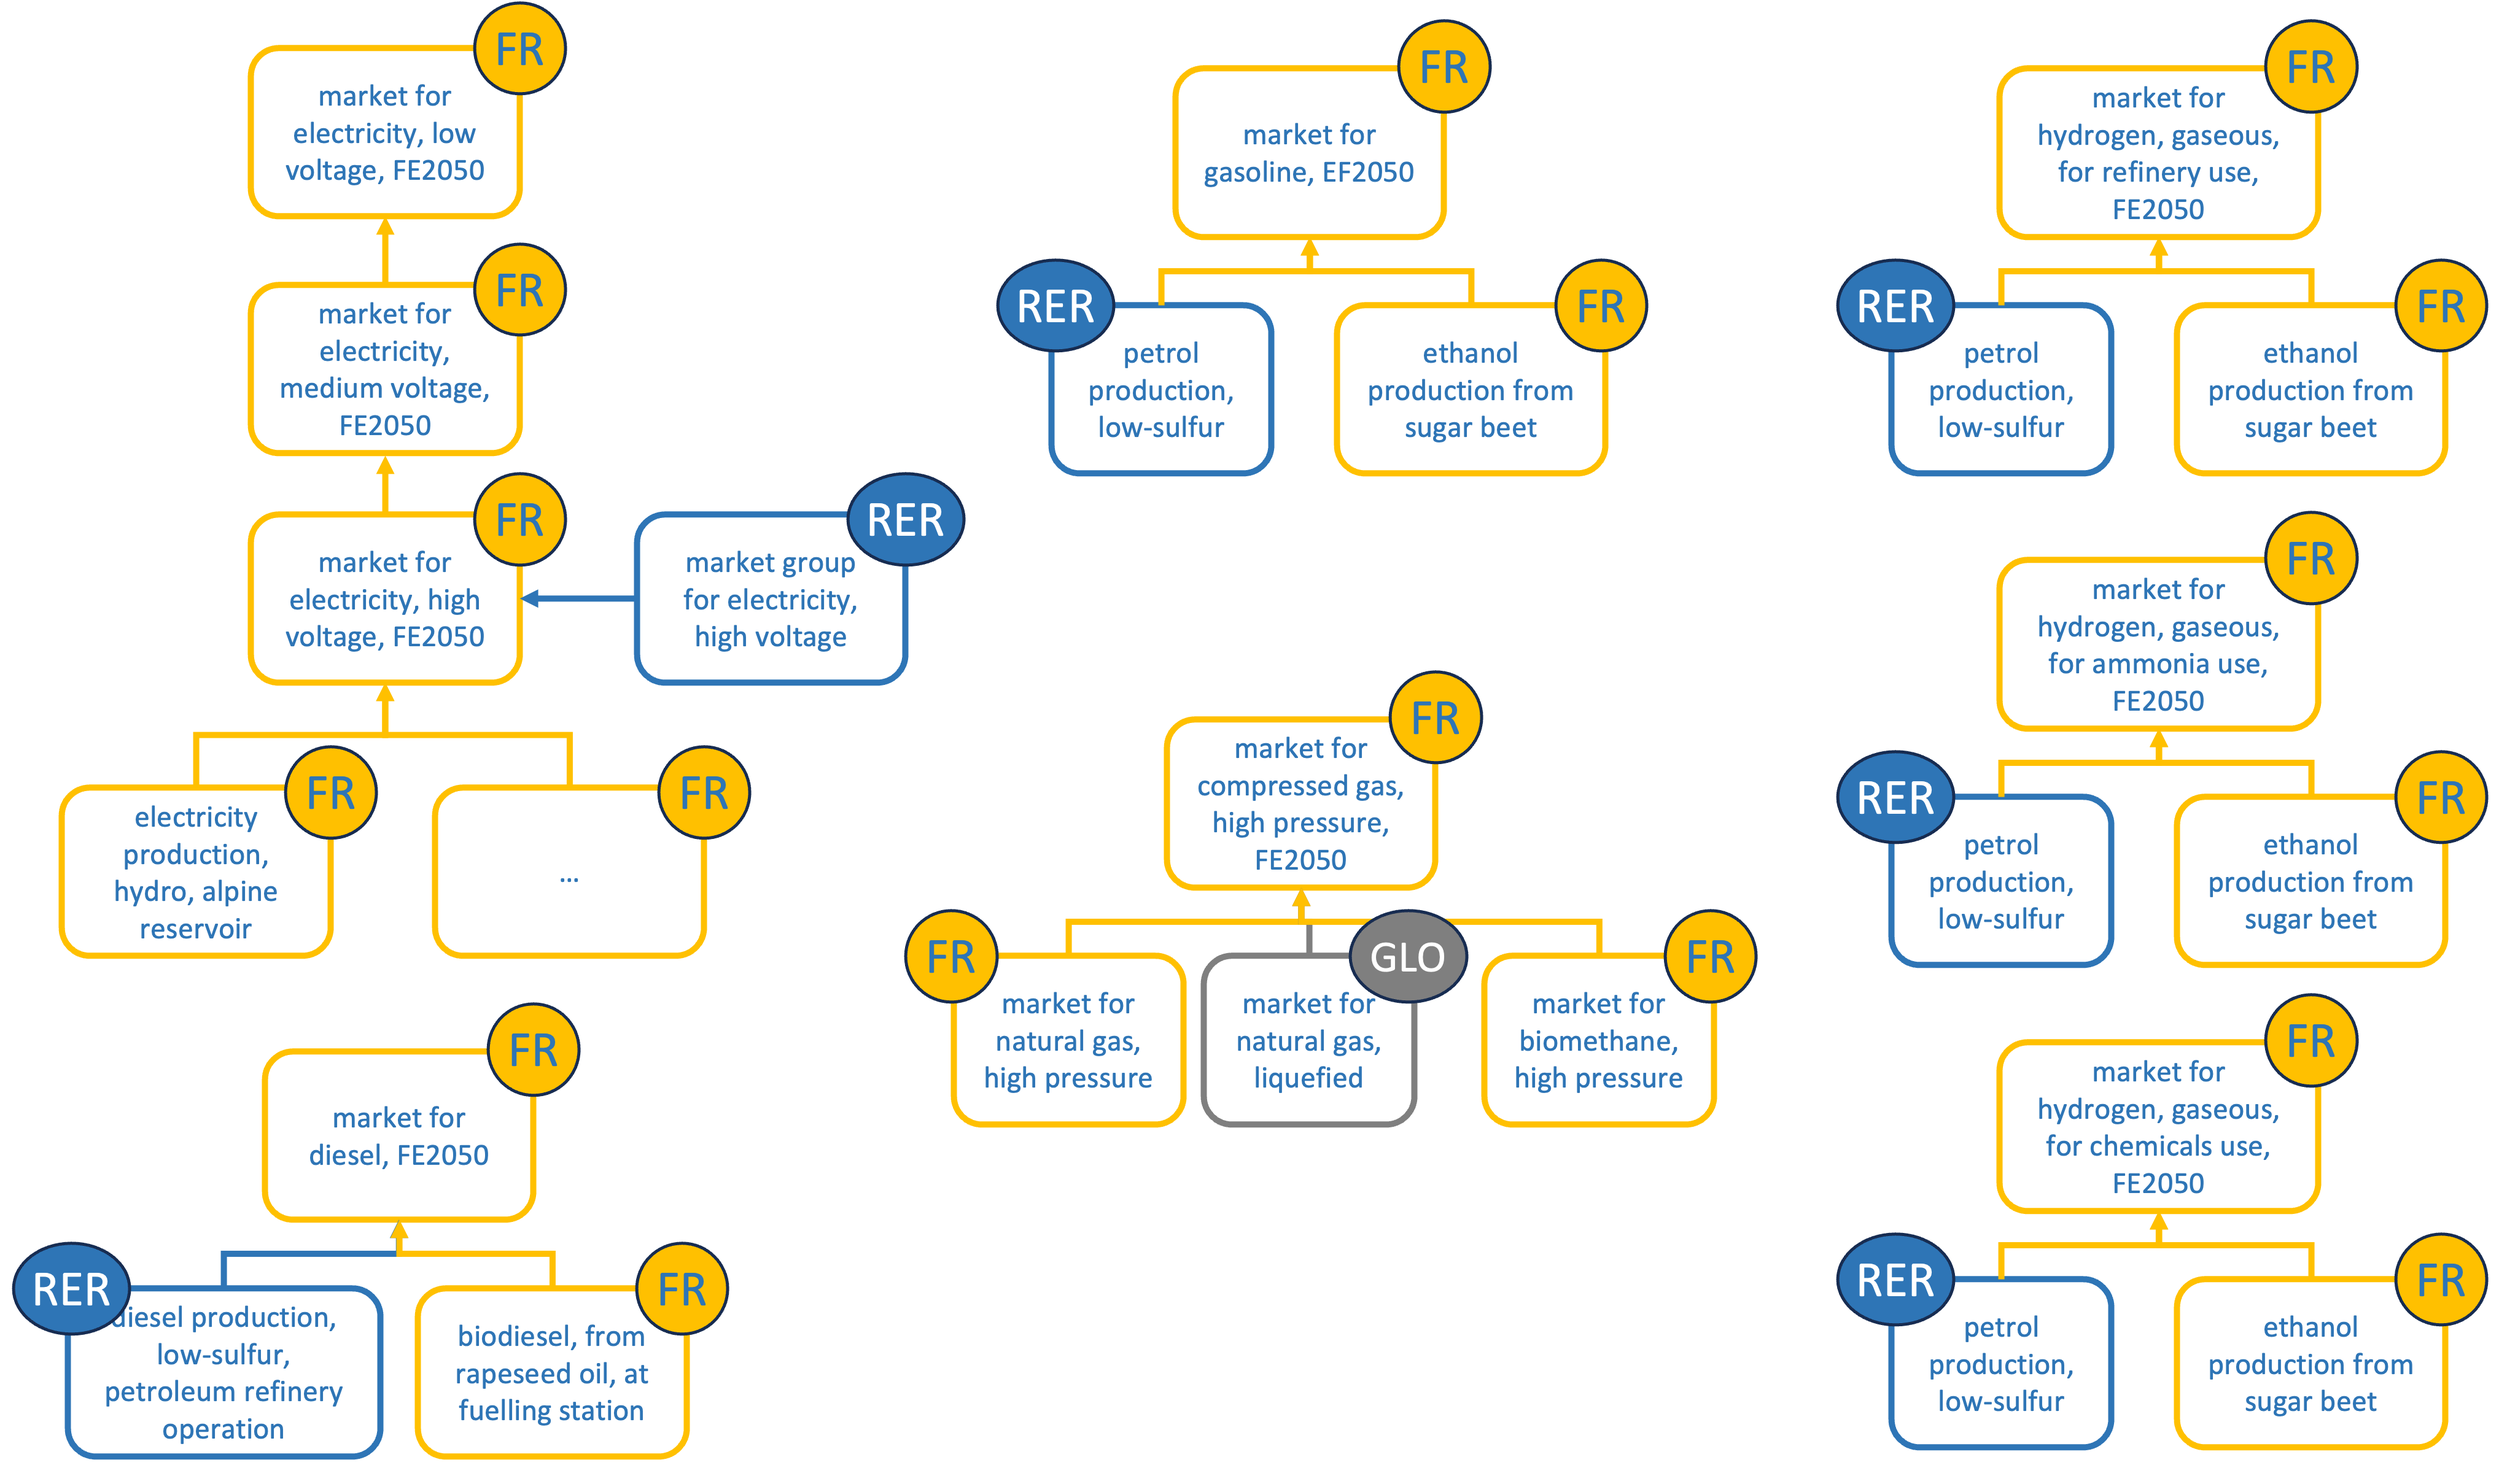
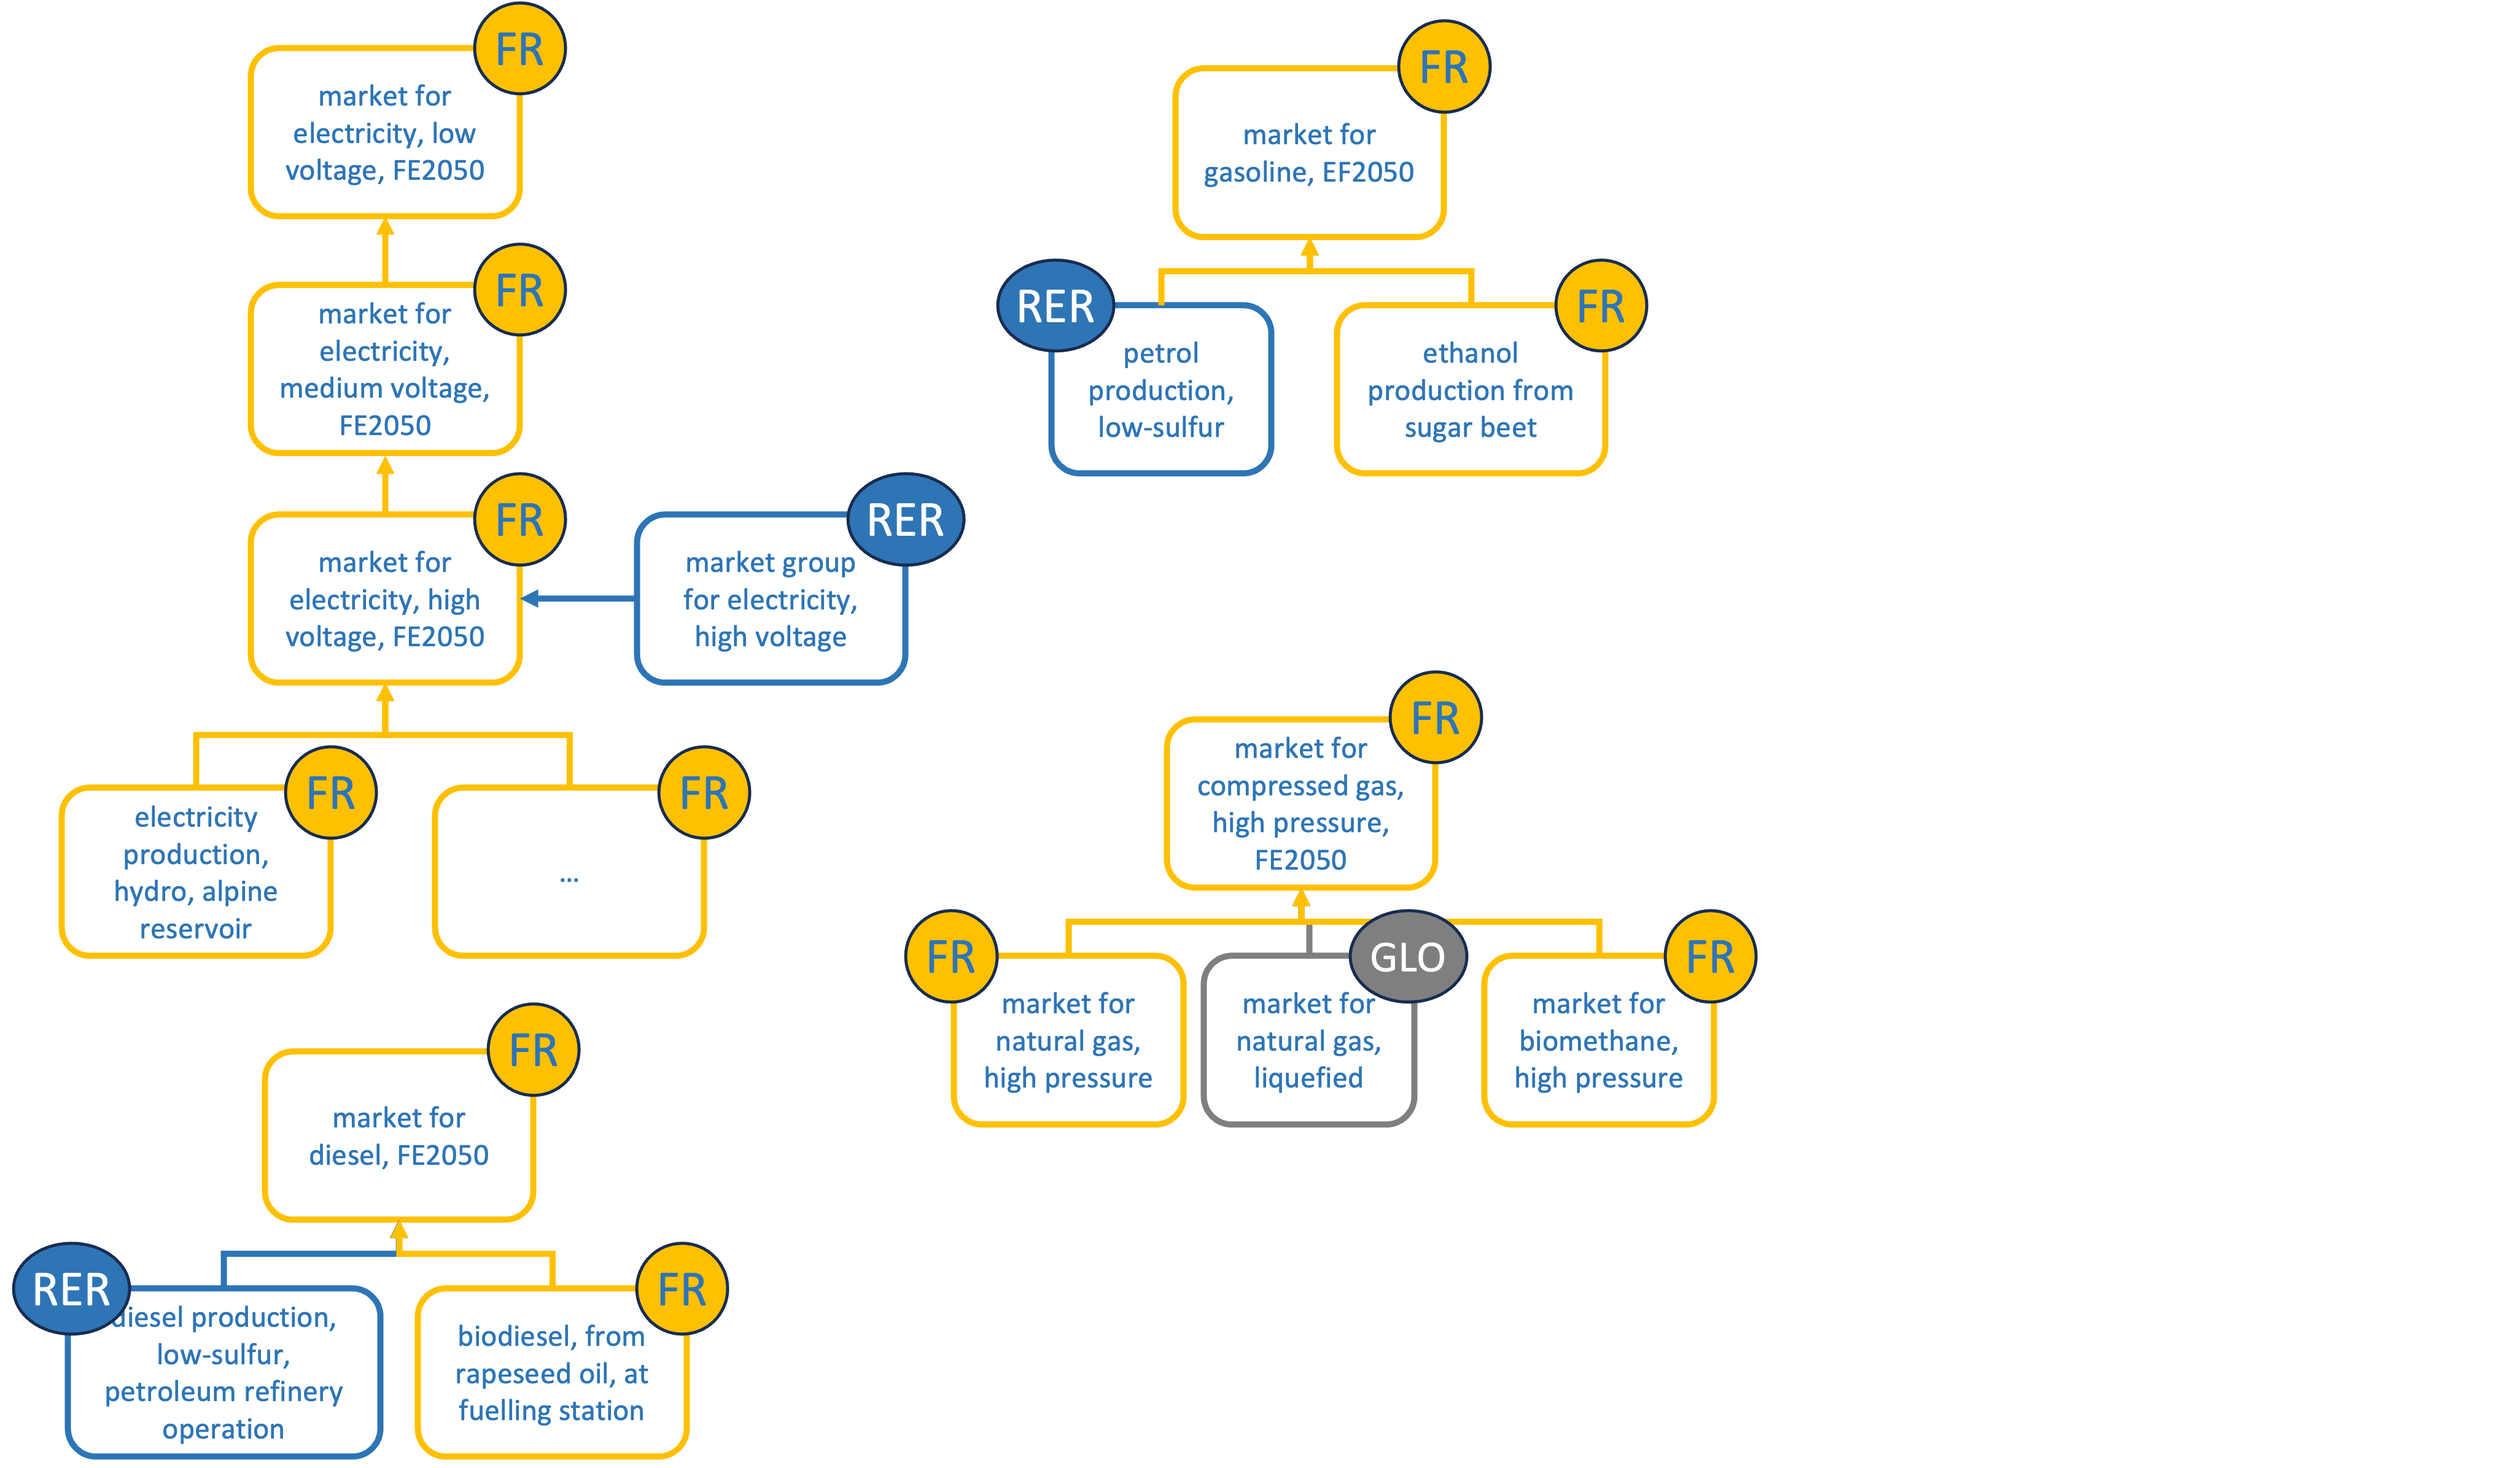
Add FR map in README.md

Changed region(s): [[0.7177, 0.0, 0.9985, 0.99], [0.7801, 0.7115, 0.8113, 0.7425], [0.7801, 0.464, 0.8113, 0.495]]

diff --git a/README.md b/README.md
@@ -1,24 +1,40 @@
 # Premise + French prospective scenarios : Futurs énergétiques 2050 / RTE
-Implementation of French prospective scenarios from RTE study "Futurs énergétiques 2050" into ecoinvent database with premise
+Implementation of French prospective scenarios from RTE study "Futurs énergétiques 2050" 
+into ecoinvent database with premise
 
 
 What does this repository do ?
 -----------
 
-This is a repository containing the implementation of prospective scenarios for France into ecoinvent. 
-The prospective scenarios are provided in the "Futurs énergétiques 2050" (also called "Energy pathways to 2050") study by the French Transmission System Operator - RTE.   
-The scope of RTE prospective study is metropolitan France, from now to 2050, and covers in details the electricity mix sector and with less details the fuel & gas, and hydrogen sectors.
-This repository creates market-specific activities in the LCA database ecoinvent for the following sectors in France:
+![boundaries map](https://github.com/oie-mines-paristech/RTE_scenarios/blob/main/assets/map.png?raw=true)
+
+This is a repository containing the implementation of prospective scenarios 
+for France into ecoinvent. The prospective scenarios are provided in the 
+"Futurs énergétiques 2050" (also called "Energy pathways to 2050") study by 
+the French Transmission System Operator - RTE. The scope of RTE prospective 
+study is metropolitan France, from now to 2050, and covers in details the 
+electricity mix sector and with less details the fuel & gas, and hydrogen 
+sectors. This repository creates market-specific activities in the LCA database ecoinvent for the following sectors in France:
 * electricity
 * hydrogen
 * fuel & gas
 
-The evolution at the world regional scale are modeled by coupling the French scenarios with a global scenario provided by an Integrated Assessment Model (IAM).
+The evolution at the world regional scale are modeled by coupling the 
+French scenarios with a global scenario provided by an Integrated 
+Assessment Model (IAM).
 
 **Warning:**
 * The modeled markets for hydrogen do not cover all uses of hydrogen, only material uses of hydrogen for the following industrial sectors : ammonia, steel, chemistry, diverse sectors, refinery). This model does not cover energetic, grid balancing and synthetic fuel uses of hydrogen.
 * The proxy used to generate imports and exports electricity datasets probably artificially overestimates the imports in 2060. The electricity datasets for 2060 shall be used with caution. 
 
+The figure below shows the different electricity and liquid fuel markets created in the ecoinvent database.
+
+![boundaries map](https://github.com/oie-mines-paristech/RTE_scenarios/blob/main/assets/diagram1.png?raw=true)
+
+
+The figure below shows the different hydrogen markets created in the ecoinvent database.
+
+![boundaries map](https://github.com/oie-mines-paristech/RTE_scenarios/blob/main/assets/diagram2.png?raw=true)
 
 
 RTE prospective study 
@@ -98,9 +114,9 @@ How to use this notebook ?
   
     ndb = NewDatabase(
         scenarios = scenarios,        
-        source_db=ecoinvent_3_9_db_name,
-        source_version="3.9.1",
-        key= , #ask the key to Romain Sacchi
+        source_db=ecoinvent_3_10_db_name,
+        source_version="3.10.1",
+        key="" , #ask the key to Romain Sacchi
         )
   
     ndb.update()
